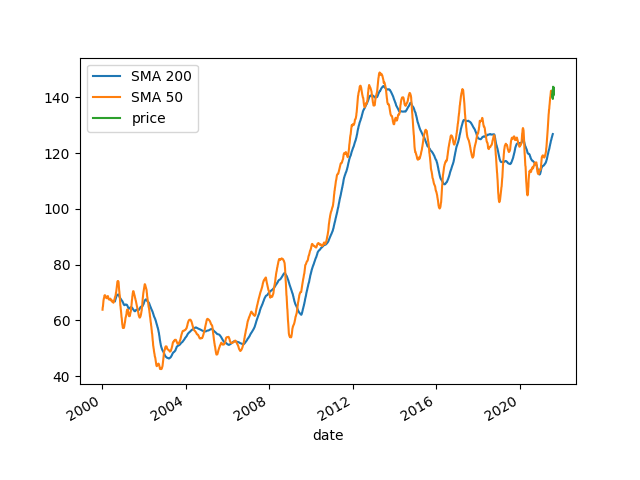
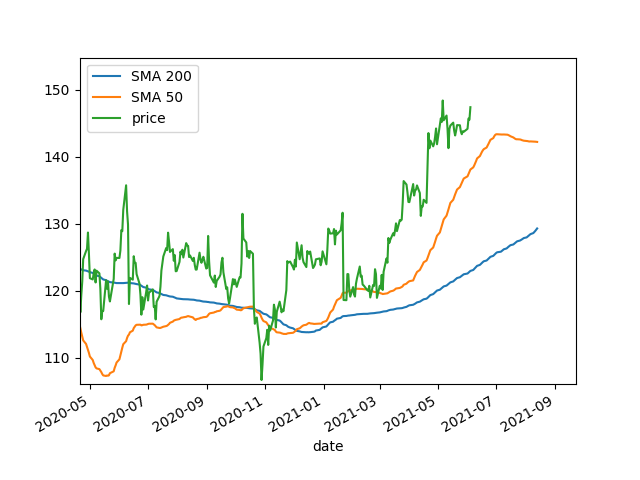
upd

diff --git a/v1/moving_average_v1.py b/v1/moving_average_v1.py
@@ -18,7 +18,7 @@ class MovingAverage():
         # uptrend to downtrend --> sell
 
         stock.get_daily_closing_price()
-        price = stock.price_data.iloc[50-1::]
+        
    
         two_hundred_day_average = stock.get_moving_average(200)
         plot_two_hundred = stock.SMA_data
@@ -26,7 +26,7 @@ class MovingAverage():
         fifty_day_average = stock.get_moving_average(50)
         plot_fifty = stock.SMA_data
 
-        price = stock.price_data.iloc[50-1::]
+        price = stock.price_data.iloc
 
         total_df = pd.concat([plot_two_hundred, plot_fifty, price], axis=1)
         total_df.plot()
@@ -37,7 +37,7 @@ class MovingAverage():
         legend.get_texts()[1].set_text('SMA 50')
         legend.get_texts()[2].set_text('price')
 
-        plt.savefig('v1\SMA.png')
+        plt.savefig('v1\SMA1.png')
         plt.show()
 
         if (fifty_day_average > two_hundred_day_average):

diff --git a/v1/stock_v1.py b/v1/stock_v1.py
@@ -57,7 +57,7 @@ class Stock:
 
     def get_moving_average(self, timeperiod):
         data_ti, meta_data_ti = self.tech_indicators.get_sma(symbol=self.symbol, interval='daily',
-                                            time_period=timeperiod, series_type='low')
+                                            time_period=timeperiod, series_type='close')
         self.SMA_data = data_ti
         return float(data_ti['SMA'][-1])
 
